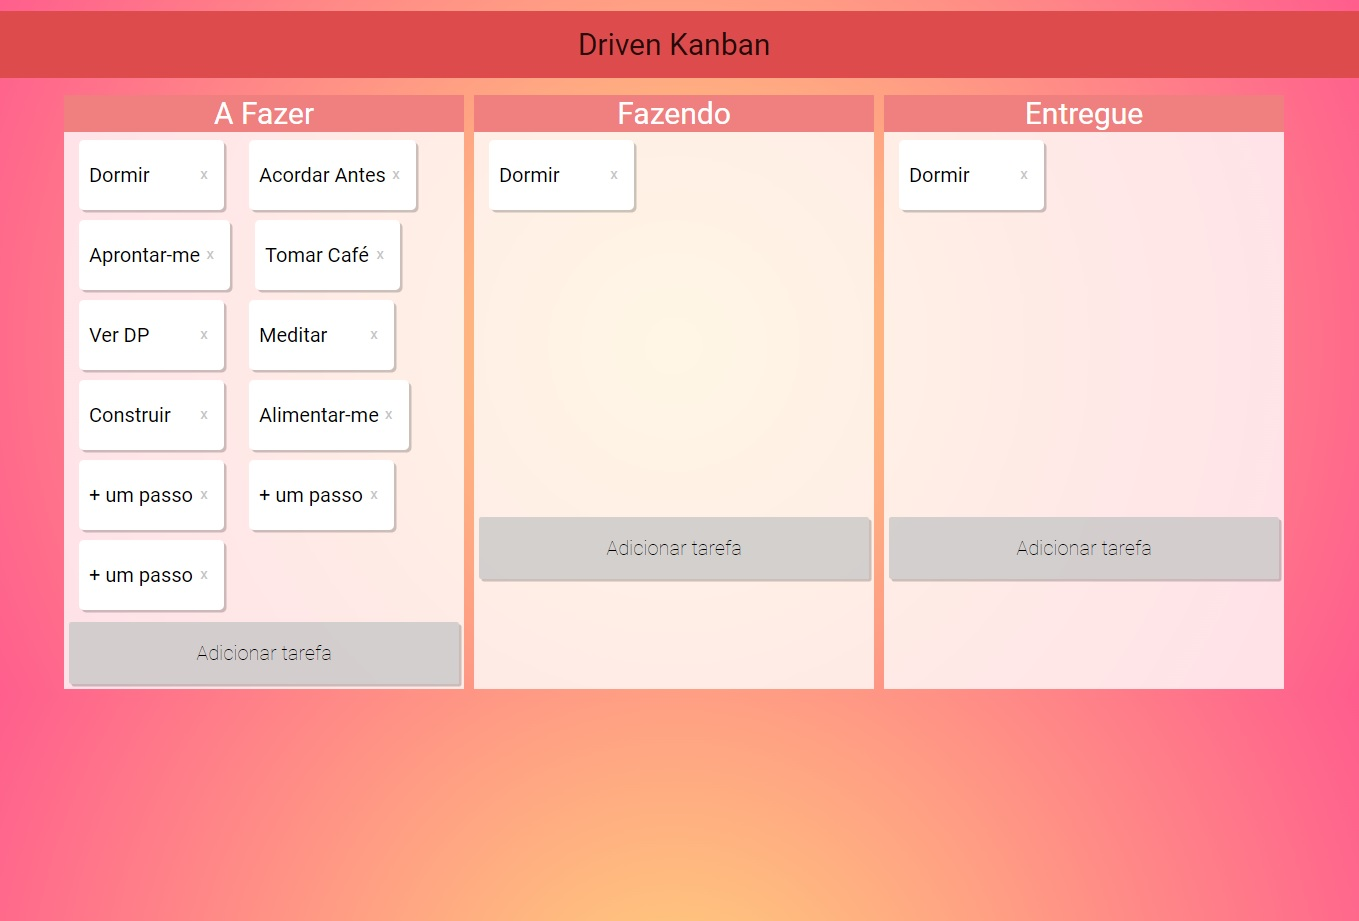
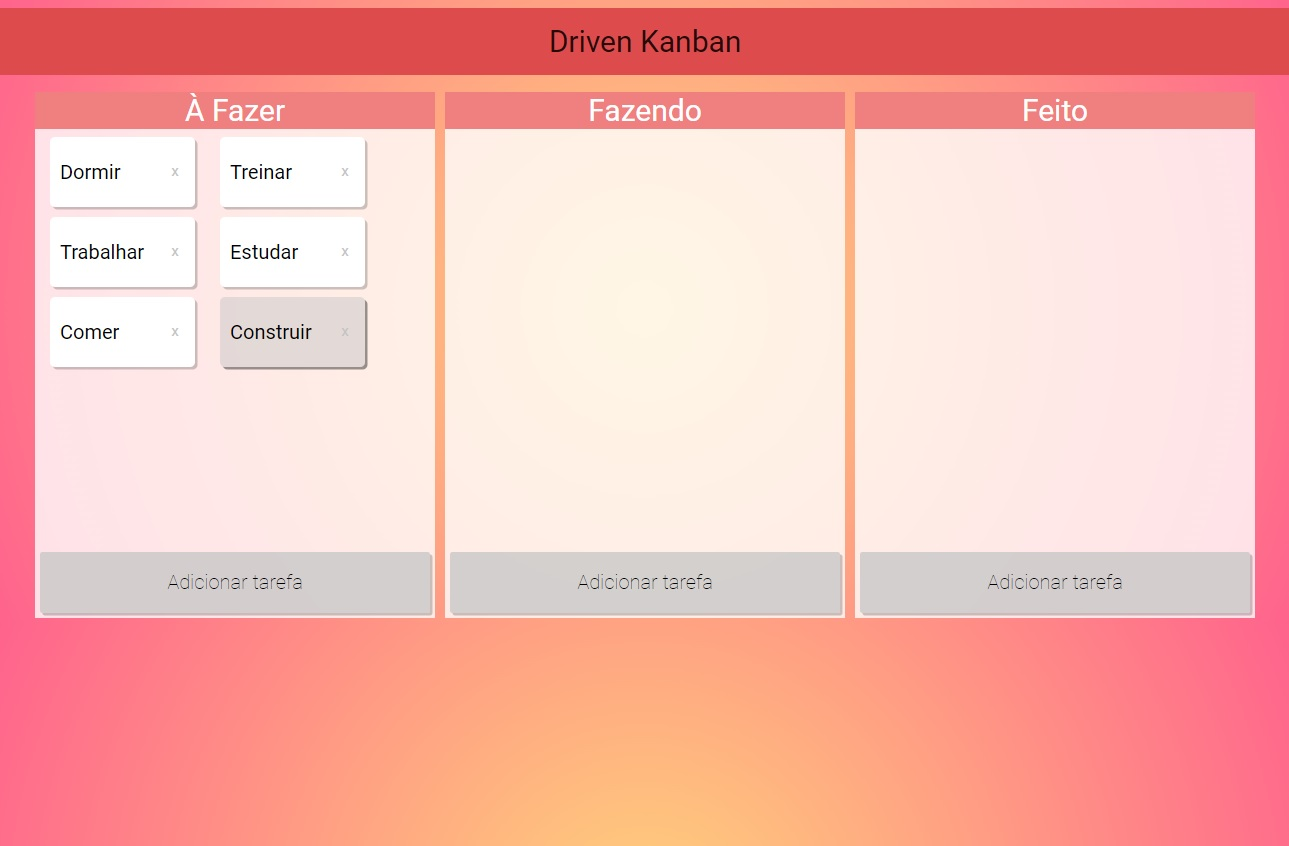
mobile first

Changed region(s): [[0.0, 0.0307, 1.0, 0.7683]]

diff --git a/index.html b/index.html
@@ -14,7 +14,11 @@
     <main>
         <div class="board">
             <h3 class="title">À Fazer</h3>
-            <ul id="a-fazer" class="todo-list">
+            <ul id="a-fazer" class="todo-list" ondrop="drop(event, this.id)" ondragover="over(event)">
+                <li id="${new Date().getTime()}" draggable="true" ondraggstart="drag(event)">
+                    <p>Teste</p>
+                    <p onclick="removeCard(this)" class="remove">x</p>
+                </li>
             </ul>
             <div class="add-card" onclick="addCard(this)">
                 <p>Adicionar tarefa</p>

diff --git a/main.js b/main.js
@@ -4,7 +4,7 @@ function addCard(elemento) {
   const board = document.getElementById(ulId);
 
   const template = `
-    <li id="${new Date().getTime()}">
+    <li id="${new Date().getTime()}" draggable="true" ondraggstart="drag(event)">
         <p>${text}</p>
         <p onclick="removeCard(this)" class="remove">x</p>
     </li>
@@ -16,5 +16,11 @@ function addCard(elemento) {
 
 function removeCard(elemento) {
     document.getElementById(elemento.parentElement.id).remove();
+}
+
+function drag(elemento) {
+}
+
+function over(elemento) {
 }
   

diff --git a/styles.css b/styles.css
@@ -31,6 +31,7 @@ header h1{
 
 main{
     display: flex;
+    flex-wrap: wrap;
     justify-content: center;
     margin-top: 10px;
 }

diff --git a/Readme.md b/Readme.md
@@ -33,12 +33,14 @@
 
 <p align="center" style="display: flex; align-items: flex-start; justify-content: center;">
   <img alt="Um kanban de tarefas" title="#DrivenChallengeKanban" src="./.github/modo-1.jpg" width="400px">
+  <img alt="Um kanban de tarefas" title="#DrivenChallengeKanban" src="./.github/modo-2.jpg" width="400px">
 </p>
 
 ### 🧭 Adicionado
 
 - Editando os elementos html para tags semânticas
 - Utilizando medidas fluídas ao invés de medidas fixas
+- Mobile first
 
 ---  
 
